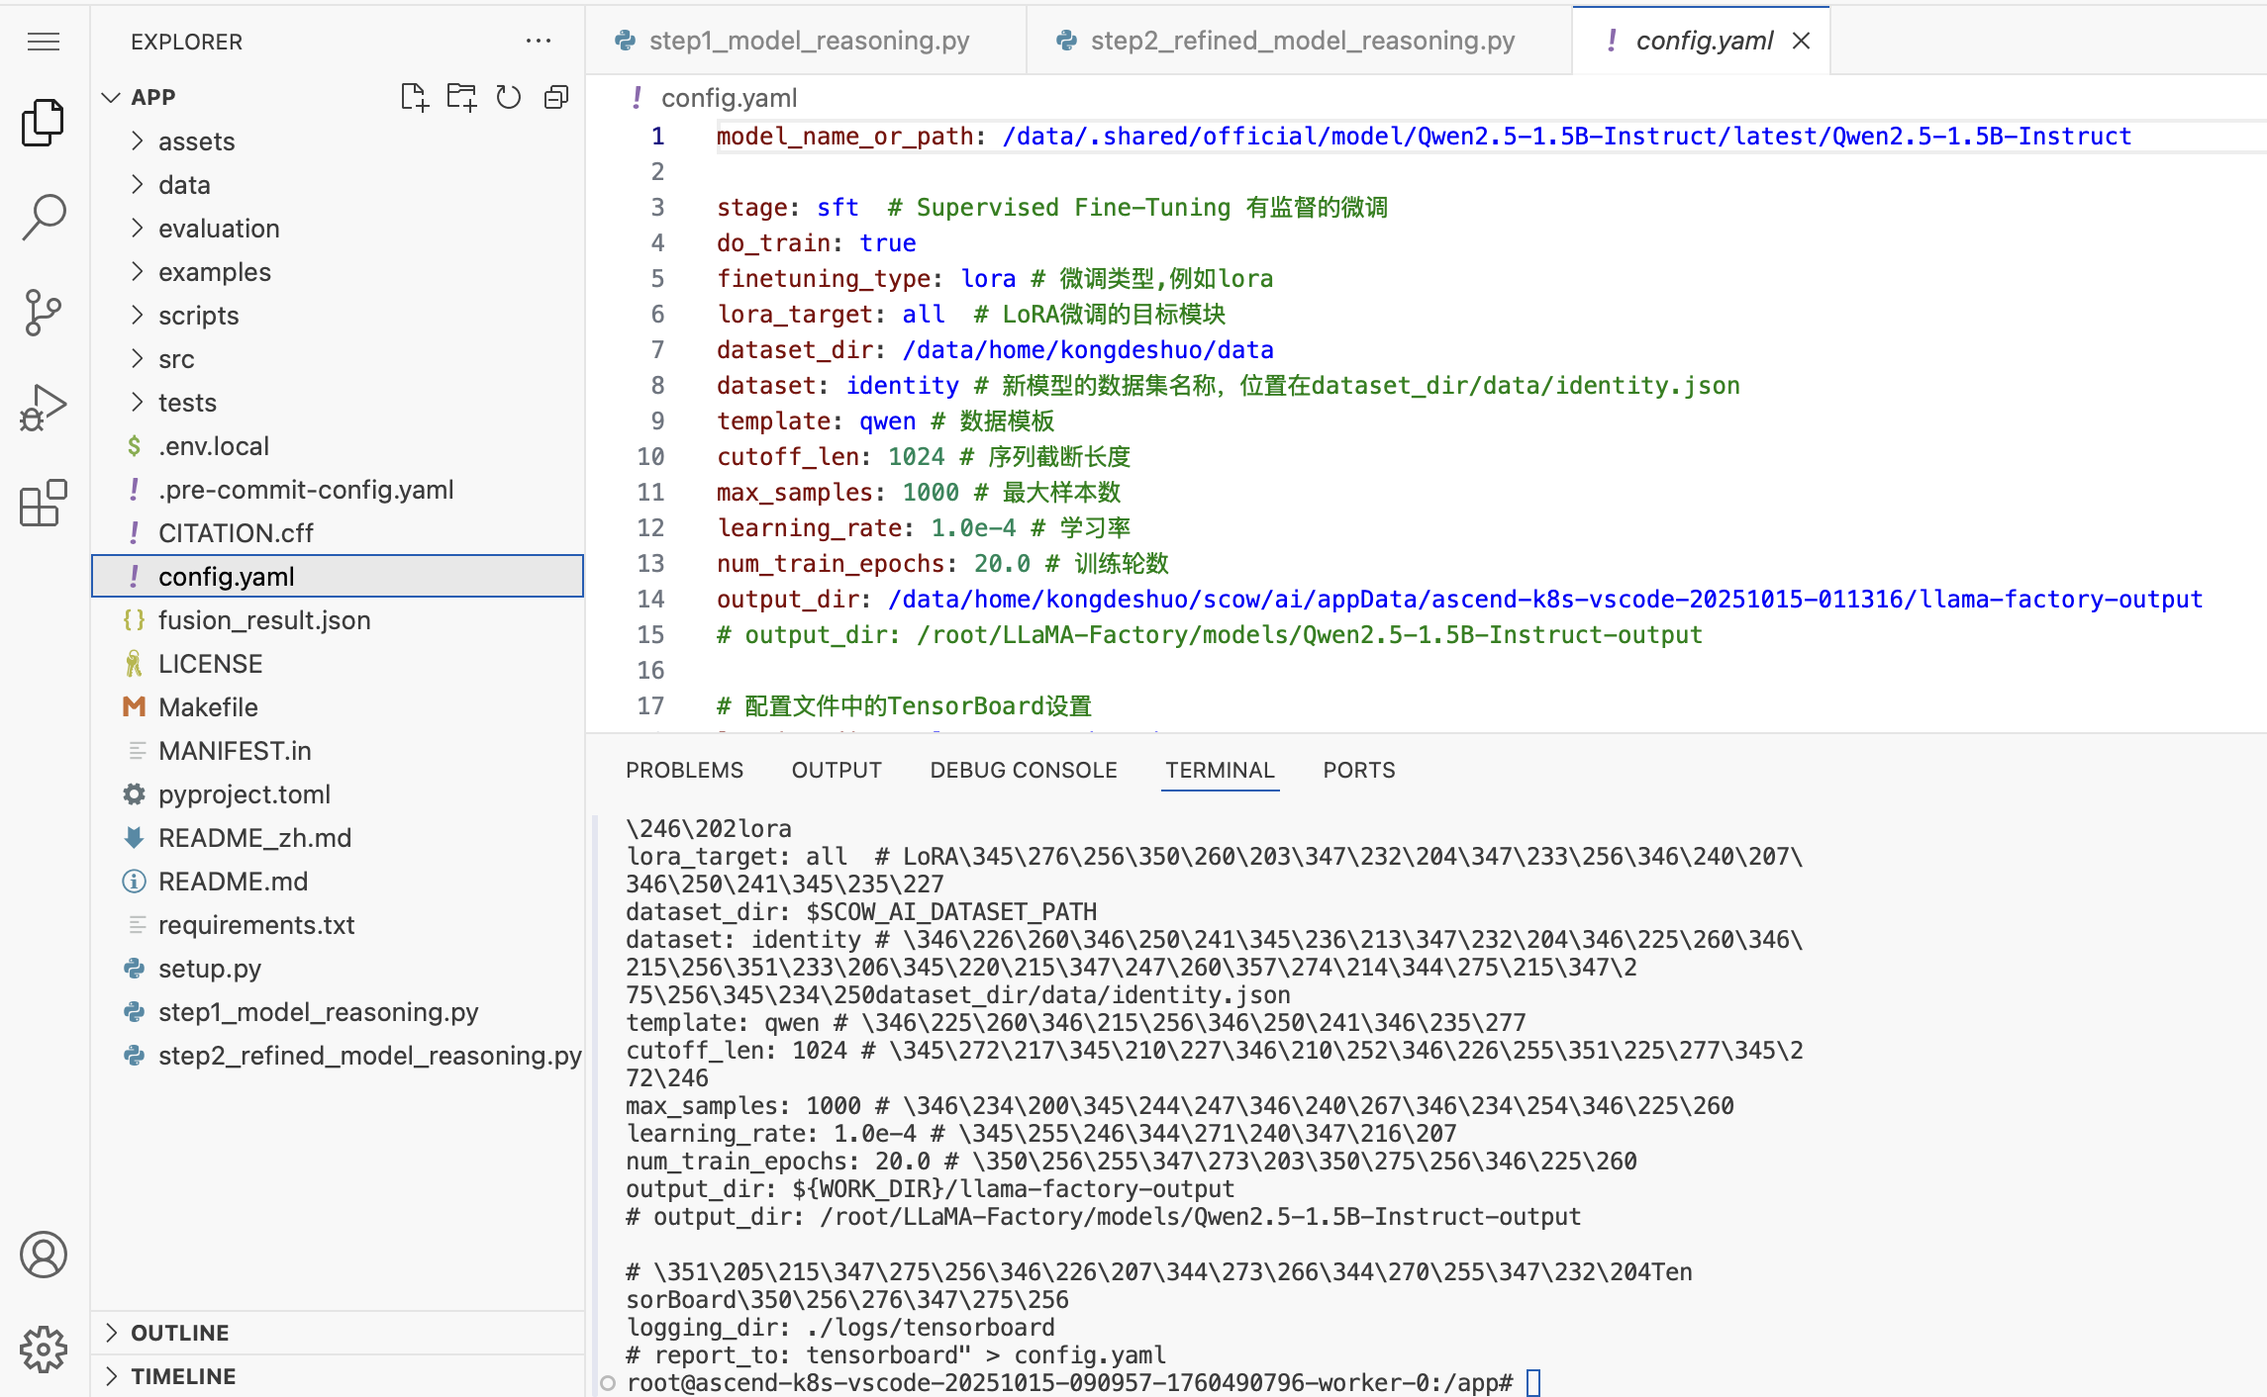
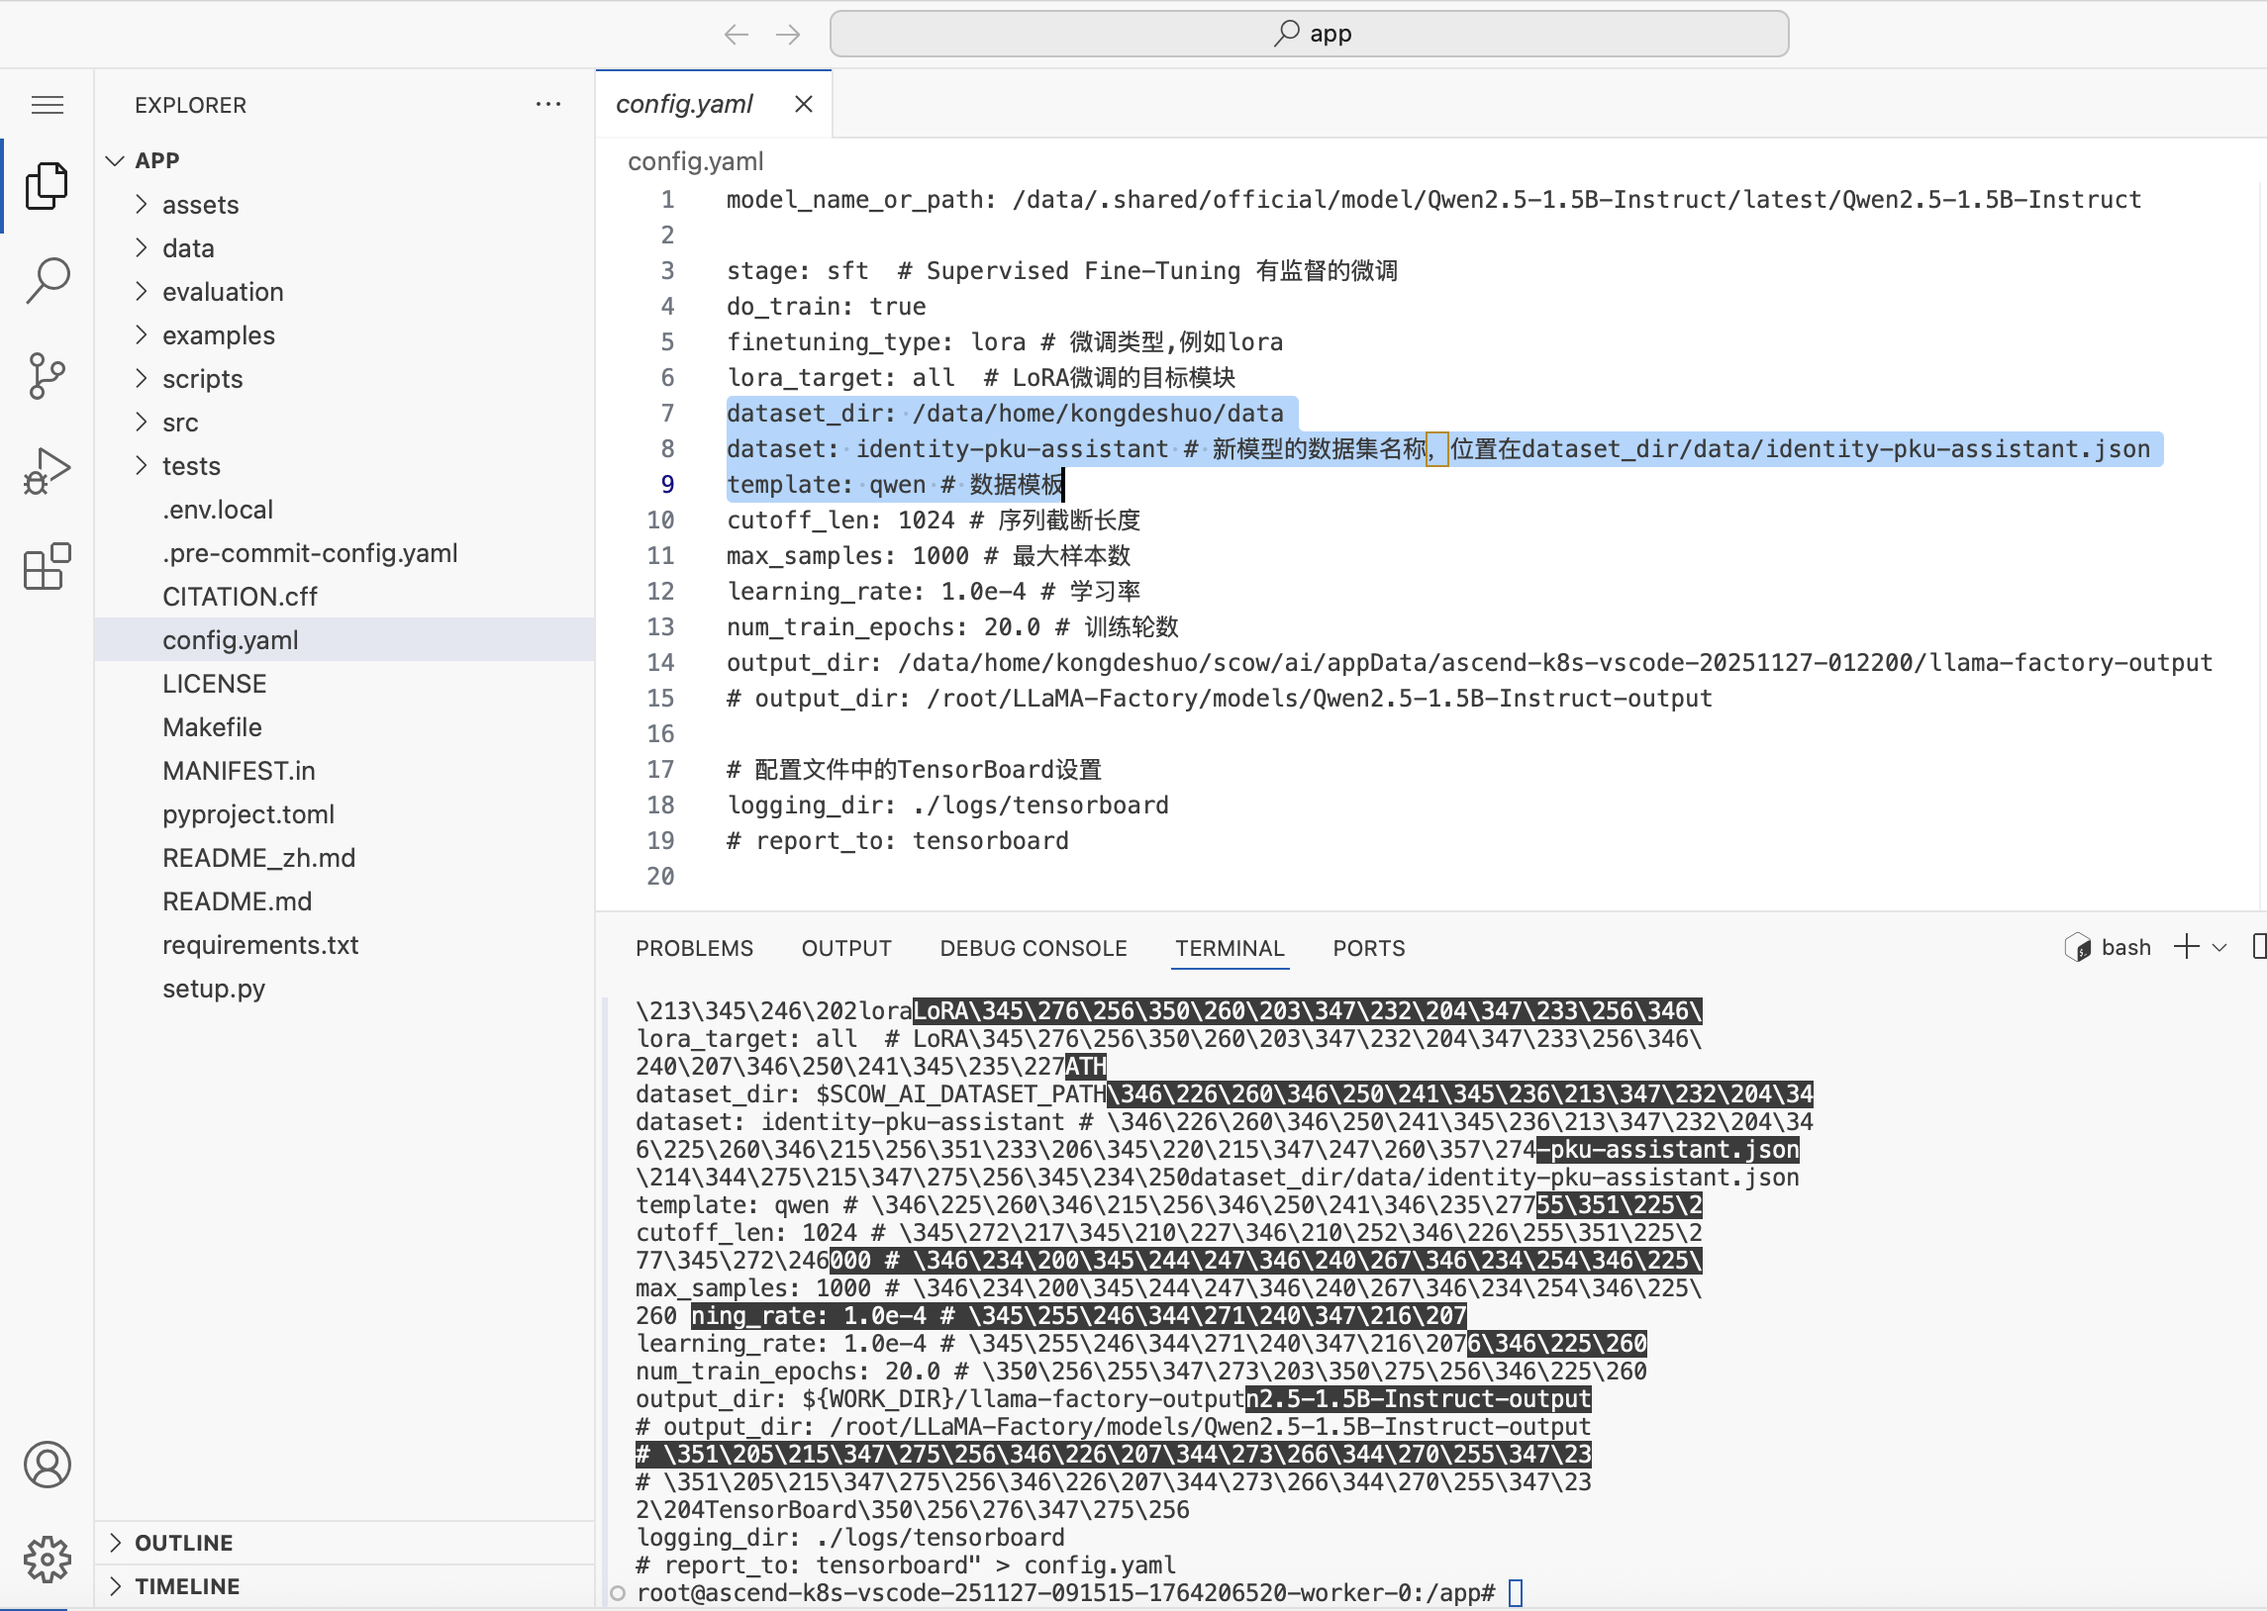
更新t9中的图片

diff --git a/Tutorial9_llama_factory单机单卡/tutorial9_llama_factory.md b/Tutorial9_llama_factory单机单卡/tutorial9_llama_factory.md
@@ -1,11 +1,10 @@
-# Tutorial9
-: 使用LLaMA-Factory官方镜像完成Qwen2.5大模型的微调、推理
+# Tutorial9: 使用LLaMA-Factory官方镜像完成Qwen2.5大模型的微调、推理
 
 * 集群类型：智算平台
-* 所需镜像：app-store-images.pku.edu.cn/hiyouga/llamafactory:0.9.4
+* 所需镜像：app-store-images.pku.edu.cn/hiyouga/llamafactory:0.9.4-npu-a2
 * 所需模型：Qwen2.5-1.5B-Instruct
 * 所需数据集：教程内提供
-* 所需资源：单机单卡
+* 所需资源：单机单卡，建议使用1张910B NPU运行本教程。
 * 目标：本节以Qwen2.5-1.5B-Instruct模型为例，使用LLaMA-Factory官方镜像对这个Qwen大模型完成微调、推理的步骤。未经过微调的Qwen大模型认为自己是Qwen大模型；经过微调后，Qwen大模型认为自己是北大人工智能助手。
 
 分以下几步来实现：
@@ -20,8 +19,8 @@
 
 1.2 创建交互式应用
 
-1.2.1 然后点击 作业 > 选择集群（这里AI实验集群是AI集群的名称） > 应用 >创建应用
-![alt text](assets/assets/image.png)
+1.2.1 然后点击 作业 > 选择集群（这里ascend-k8s是AI集群的名称） > 应用 >创建应用
+![alt text](assets/image-1.png)
 
 1.2.2 点击VSCode
 ![alt text](assets/image-2.png)
@@ -31,40 +30,60 @@
 1.2.3 拉取镜像
 选择镜像源 - 远程镜像
 运行命令 - 勾选 修改默认命令
-* 将 `app-store-images.pku.edu.cn/hiyouga/llamafactory:0.9.4` 拷贝后，粘贴到 远程镜像地址框中，用于平台根据镜像地址拉取相应的LLaMa-Factory镜像
-* 将 `${SCOW_AI_ALGORITHM_PATH}/bin/code-server` 拷贝后，粘贴到 修改默认命令框中，用于平台启动VSCode应用
-![alt text](assets/assets/image-1.png)
+* 将 app-store-images.pku.edu.cn/hiyouga/llamafactory:0.9.4-npu-a2 拷贝后，粘贴到 远程镜像地址框中，用于平台根据镜像地址拉取相应的LLaMa-Factory镜像
+* 将 ${SCOW_AI_ALGORITHM_PATH}/bin/code-server 拷贝后，粘贴到 修改默认命令框中，用于平台启动VSCode应用
+![alt text](assets/image-3.png)
 
 1.2.4 添加模型、算法、和数据集
 * 勾选添加类型 - 模型，下拉菜单中，选取 公共模型；模型下拉菜单中，选取 Qwen2.5-1.5B-Instruct(official) 模型，版本下拉菜单中，选取 latest
+![alt text](assets/image-4.png)
 
-* 勾选添加类型 - 算法，下拉菜单中，选取 公共算法；算法下拉菜单中，选取 code-server(official) 算法，版本下拉菜单中，选取 4.99.4-linux-amd64，此时应可以看到算法描述部分显示启动命令，与1.1.4步骤中的启动命令是一致的
+* 勾选添加类型 - 算法，下拉菜单中，选取 公共算法；算法下拉菜单中，选取 code-server(official) 算法，版本下拉菜单中，选取 4.95.3，此时应可以看到算法描述部分显示启动命令，与1.1.4步骤中的启动命令是一致的
+![alt text](assets/image-5.png)
 
-* 勾选添加类型 - 数据集，下拉菜单中，选取 我的数据集；数据集下拉菜单中，选取刚创建的 identity（这里有你的用户名） 数据集，版本下拉菜单中，选取刚在数据集中设置的版本号；有多个版本的话，选取恰当的版本
-
-![alt text](assets/assets/image-3.png)
+* 勾选添加类型 - 数据集，下拉菜单中，选取 我的数据集；数据集下拉菜单中，选取刚创建的 identity-pku-assistant（这里有你的用户名） 数据集，版本下拉菜单中，选取刚在数据集中设置的版本号；有多个版本的话，选取恰当的版本
+![alt text](assets/image47.png)
 
 1.2.5 本教程采用单节点单卡，资源部分不需要修改。也可以根据实际需要，如单节点多卡的话，在 单节点加速卡卡数 中修改为2/4/8（单节点上限是8卡，卡数越多，对大模型训练的时间会相应缩短）然后点击 提交 按钮
-![alt text](assets/assets/image-2.png)
+![alt text](assets/image-6.png)
 
 1.2.6 进入新创建的VScode应用的浏览器界面
 
 提交后，刚创建的作业在 未结束的作业 列表中，作业状态为 PENDING
-![alt text](assets/assets/image-4.png)
+![alt text](assets/image-7.png)
 
 点击 刷新 按钮，手动进行刷新后，作业状态转为 RUNNING
-![alt text](assets/assets/image-5.png)
+![alt text](assets/image-8.png)
 
 在这条作业的操作中，点击 进入 图标，浏览器将打开新的页面来展示新创建的VScode应用
-![alt text](assets/assets/image-6.png)
+![alt text](assets/image-9.png)
+
+如果你是首次走到这一步，会看见如下弹窗，勾选 信任作者，并点击 信任作者 按钮
+![alt text](assets/1.1.7-trust-author-popup.png)
 
 进入新创建的VScode交互应用的浏览器界面
 ![alt text](assets/image-10.png)
 
-打开`/app`文件夹和终端
+1.2.7 打开app文件夹，之后的所有文件都将保存在这个文件夹下，之后的所有操作都将在这个文件夹下进行
+点选左侧导航栏中第二个选项，显示 打开文件夹 按钮
+![alt text](assets/1.1.8-open-folder-icon.png)
+![alt text](assets/1.1.8-open-folder.png)
 
-![alt text](assets/assets/image-7.png)
-![alt text](assets/assets/image-8.png)
+点击 打开文件夹 按钮，可见 最初的文件夹是 /root/
+![alt text](assets/1.1.8-open-folder-root.png)
+
+将输入框内的文件夹修改为 /app/，点击 OK 按钮
+![alt text](assets/1.1.8-open-folder-app.png)
+
+app文件夹打开，里面包含子文件夹和文件
+![alt text](assets/1.1.8-app-folder.png)
+
+点选左侧导航栏中第一个选项，选择 Termianl > New Terminal 创建新终端
+![alt text](assets/1.1.8-terminal-icon.png)
+![alt text](assets/1.1.8-create-terminal.png)
+
+完整的VSCode应用包含的左侧app文件夹、右侧上半区域的文件显示窗口、和右侧下半区域的终端
+![alt text](assets/1.1.8-HW-vscode-check-app-folder.png)
 
 ## 2、进行配置
 
@@ -78,7 +97,7 @@ do_train: true
 finetuning_type: lora # 微调类型,例如lora
 lora_target: all  # LoRA微调的目标模块
 dataset_dir: $SCOW_AI_DATASET_PATH
-dataset: identity # 新模型的数据集名称，位置在dataset_dir/data/identity.json
+dataset: identity-pku-assistant # 新模型的数据集名称，位置在dataset_dir/data/identity-pku-assistant.json
 template: qwen # 数据模板
 cutoff_len: 1024 # 序列截断长度
 max_samples: 1000 # 最大样本数 
@@ -100,66 +119,69 @@ logging_dir: ./logs/tensorboard
 
 2.2 在app文件夹中创建 step1_model_reasoning.py 文件，这是作为模型微调前做推理的文件
 2.2.1 点击红色箭头所指的图标，新建文件，在蓝色方框内给新建的文件取名 step1_model_reasoning.py 再按回车键
-
-![alt text](assets/assets/image-9.png)
+![alt text](assets/2.2.1-create-step1-py.png)
 
 2.2.2 右侧上半部的窗口打开了这个新建的 step1_model_reasoning.py 空白文件
-
-![alt text](assets/assets/image-10.png)
+![alt text](assets/2.2.2-blank-step1-py.png)
 
 2.2.3 拷贝下面代码:
 ```python
 import torch
+import torch_npu
 from transformers import AutoModelForCausalLM, AutoTokenizer
 import os
 
-model_dir = os.environ.get('SCOW_AI_MODEL_PATH')
-print(f"Model downloaded to: {model_dir}")
+# model_dir = './models/Qwen2-1.5B-Instruct'
+# os.environ.get('SCOW_AI_MODEL_PATH')
+for model_dir in [os.environ.get('SCOW_AI_MODEL_PATH', './models/Qwen2-1.5B-Instruct')]:
+    print(f"Model downloaded to: {model_dir}")
 
-# 设置CUDA设备
-device = 'cuda:0' if torch.cuda.is_available() else 'cpu'
+    # 设置NPU设备
+    device = 'npu:0'
+    torch.npu.set_device(device)
 
-# 加载模型和分词器
-tokenizer = AutoTokenizer.from_pretrained(model_dir)
-model = AutoModelForCausalLM.from_pretrained(model_dir).to(device)
+    # 加载模型和分词器
+    tokenizer = AutoTokenizer.from_pretrained(model_dir)
+    model = AutoModelForCausalLM.from_pretrained(model_dir).to(device)
 
-model.eval()  # 设置为评估模式
+    model.eval()  # 设置为评估模式
 
-# 准备输入数据
-input_text = "你好，你是谁？"
-input_ids = tokenizer.encode(input_text, return_tensors='pt').to(device)
-print("input_ids:", input_ids)
+    # 准备输入数据
+    input_text = "你好，你是谁？"
+    input_ids = tokenizer.encode(input_text, return_tensors='pt').to(device)
+    print("input_ids:", input_ids)
 
-# 运行推理
-with torch.no_grad():
-    output = model.generate(input_ids, max_length=500)
+    # 运行推理
+    with torch.no_grad():
+        output = model.generate(input_ids, max_length=500)
 
-# 解码输出
-generated_text = tokenizer.decode(output[0], skip_special_tokens=True)
-print("\ngenerated_text:", generated_text)
+    # 解码输出
+    generated_text = tokenizer.decode(output[0], skip_special_tokens=True)
+    print("\ngenerated_text:", generated_text)
 ```
 
 2.2.4 粘贴到已经打开的空白的 step1_model_reasoning.py 文件，这样就完成了文件创建
-![alt text](assets/assets/image-11.png)
+![alt text](assets/image-45.png)
 
 2.3 在app文件夹中创建 step2_refined_model_reasoning.py 文件，这是作为模型微调后做推理的文件
 
 2.3.1 击红色箭头所指的图标，新建文件，在蓝色方框内给新建的文件取名 step2_refined_model_reasoning.py 再按回车键
-
-![alt text](assets/assets/image-12.png)
+![alt text](assets/2.3.1-create-step2-py.png)
 
 2.3.2 右侧上半部的窗口打开了这个新建的 step2_refined_model_reasoning.py 空白文件
-
-![alt text](assets/assets/image-13.png)
+![alt text](assets/2.3.2-blank-step2-py.png)
 
 2.3.3 拷贝下面代码:
 ```python
 import torch
+import torch_npu
 from transformers import AutoModelForCausalLM, AutoTokenizer
 import os
 
-# 设置CUDA设备
-device = 'cuda:0' if torch.cuda.is_available() else 'cpu'
+
+# 设置NPU设备
+device = 'npu:0'
+torch.npu.set_device(device)
 
 # for model_dir in [os.environ.get('SCOW_AI_MODEL_PATH', './models/Qwen2-1.5B-Instruct'), '/root/LLaMA-Factory/models/Qwen2.5-1.5B-Instruct-output']:
 for model_dir in [os.environ.get('SCOW_AI_MODEL_PATH'), os.path.join(os.environ.get('WORK_DIR'), 'llama-factory-output')]:
@@ -186,9 +208,7 @@ for model_dir in [os.environ.get('SCOW_AI_MODEL_PATH'), os.path.join(os.environ.
 ```
 
 2.3.4 粘贴到已经打开的空白的 step2_refined_model_reasoning.py 文件，这样就完成了文件创建
-
-![alt text](assets/assets/image-14.png)
-
+![alt text](assets/image-46.png)
 ## 3、用镜像对模型进行推理、微调
 
 3.1 使用还没有经过微调的模型进行推理
@@ -205,7 +225,13 @@ for model_dir in [os.environ.get('SCOW_AI_MODEL_PATH'), os.path.join(os.environ.
 3.2 对模型进行微调
 
 3.2.1 安装两个工具，这是为了llama factory的官方镜像可以正常使用
-* torchvision 在右侧下半部的终端terminal中，粘贴命令 pip3 install torchvision==0.21.0 再按回车键，确保成功安装
+* torch 
+
+在右侧下半部的终端terminal中，粘贴命令 pip3 install torch-npu==2.6.0 再按回车键，确保成功安装
+![alt text](assets/image-17.png)
+* torchvision 
+
+在右侧下半部的终端terminal中，粘贴命令 pip3 install torchvision==0.21.0 再按回车键，确保成功安装
 ![alt text](assets/image-18.png)
 
 3.2.2 在右侧下半部的终端terminal中，粘贴命令 llamafactory-cli train ./config.yaml 再按回车键
@@ -228,6 +254,6 @@ for model_dir in [os.environ.get('SCOW_AI_MODEL_PATH'), os.path.join(os.environ.
 ![alt text](assets/image-24.png)
 
 ---
-> 作者：孔德硕；石晶；褚苙扬；龙汀汀*
+> 作者：孔德硕；石晶；龙汀汀*
 >
 > 联系方式：l.tingting@pku.edu.cn
